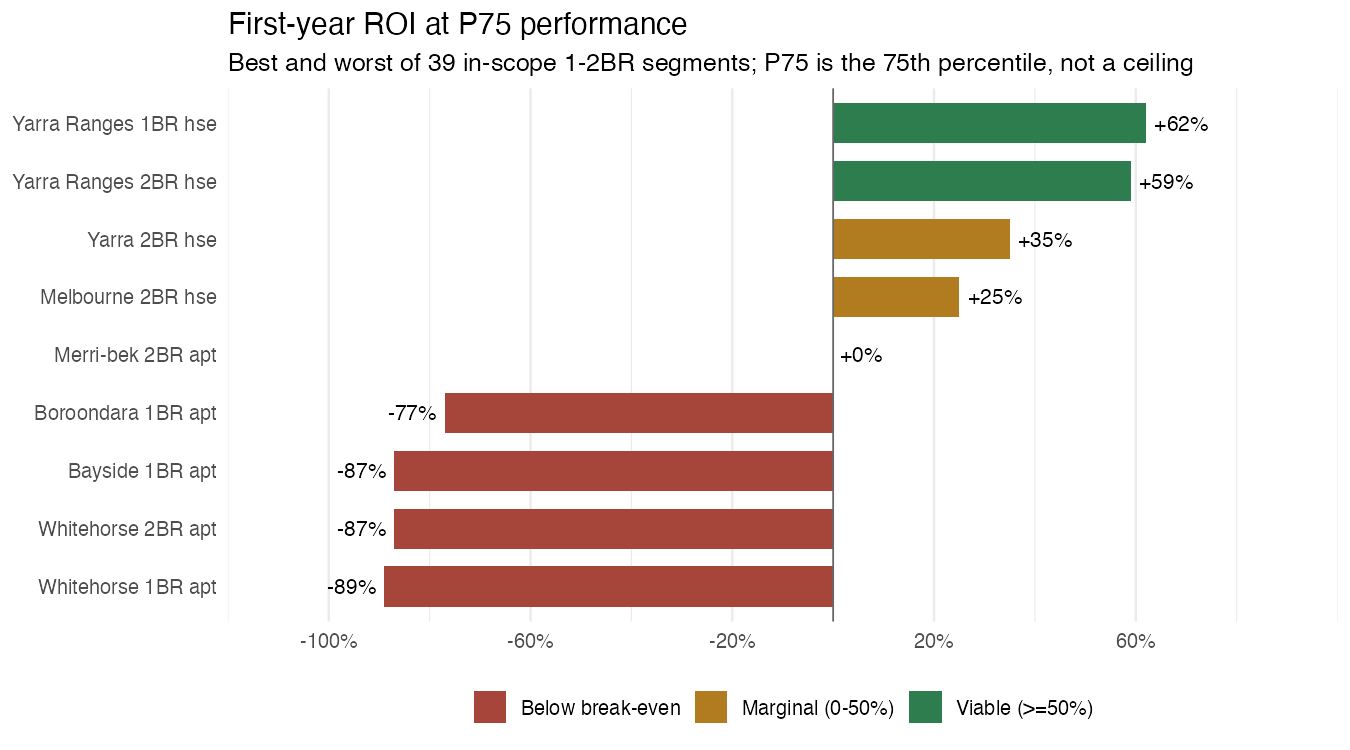
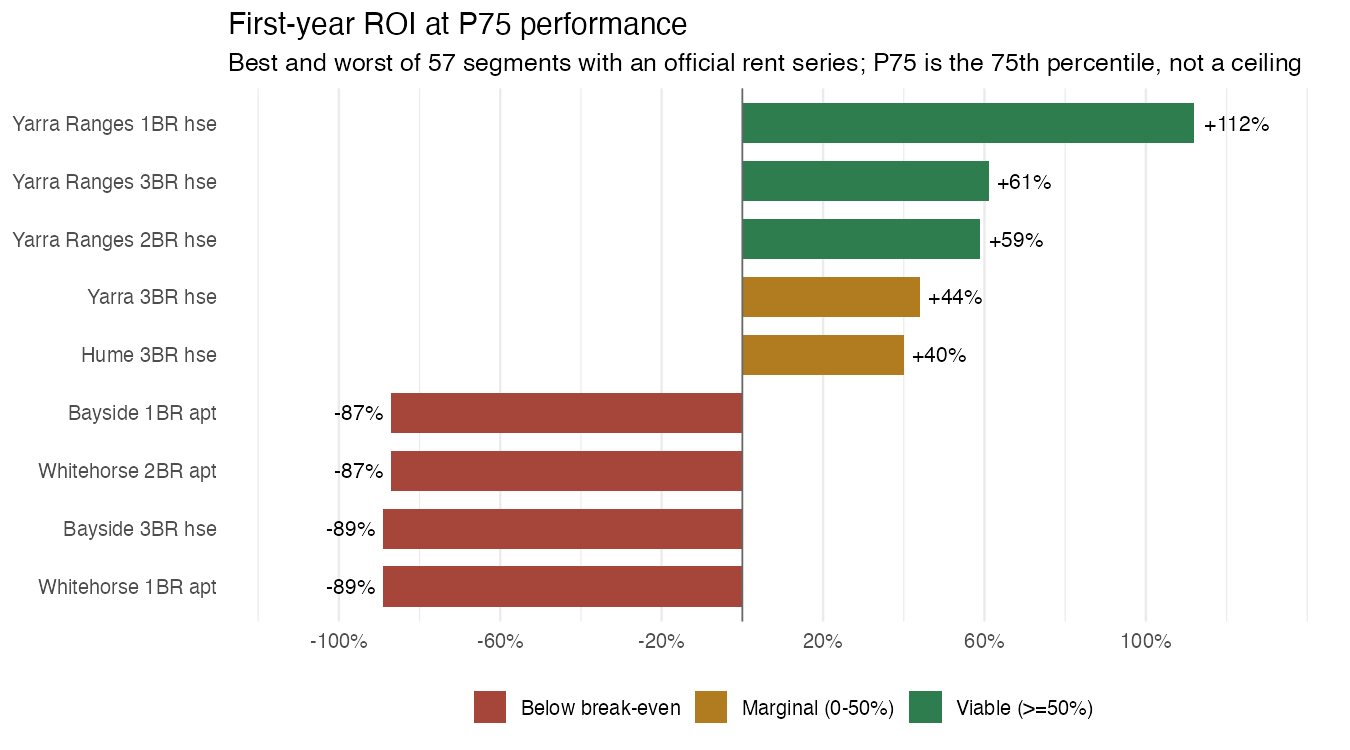
Derive 1BR-house rents rather than dropping the segment
Scope is now set by what a like-for-like rent can support. DFFH publishes four
series; one-bedroom houses have none, so their rent is derived as the LGA's own
2BR-house median scaled by that LGA's one-to-two-bedroom step in the flat
series. The step is clipped to its interquartile range (0.72-0.82, median 0.78
across 52 LGAs) on the same reasoning as the rent-growth clip, so a thin local
flat market cannot swing a derived house rent. Derived rows are flagged.

Three-bedroom apartments stay excluded: deriving them needs a dwelling-type
step rather than a bedroom step, on 961 listings.

The screen now covers 57 segments, all rent-matched. Yarra Ranges 1BR houses
enter at 112% on a derived $420 rent - previously they carried the 2BR-house
rent as an upper bound, which understated them. Also fixes subtotal rows
('Group Total', 'Victoria') leaking into the rent table as if they were LGAs.

diff --git a/reports/data-notes.md b/reports/data-notes.md
@@ -99,12 +99,24 @@ Moreland.
 
 Produced by `scripts/06_segment_roi_screen.R` from the cleaned listings and the
 official rents that `scripts/05_rent_data.R` downloads and projects forward.
-`reports/tables/segment_roi_screen.csv` holds the preliminary screen over all 39
-eligible segments (LGA x dwelling class x 1-2 bedrooms, at least 50 scoped
-listings each, 15 LGAs). Every segment matched a DFFH rent series, so none drop
-at that step. Revenue percentiles come from the active, priced subset within
-each segment; where that subset is small the percentile is indicative only. The
-five 1-bedroom-house segments have no official 1BR-house rent series and use the
-2BR-house series as a conservative upper bound. At P75 performance under
-baseline costs, 2 segments clear a 50% first-year cash-on-cash return, 3 more
-are positive, and 34 sit below break-even.
+
+Scope follows the rent data. DFFH publishes four series - 1BR flat, 2BR flat,
+2BR house, 3BR house - and a segment is only screened if a like-for-like rent
+exists or can be derived on a defensible basis:
+
+- Apartments and 2-3 bedroom houses map straight onto a published series.
+- One-bedroom houses have no series. Their rent is derived as the LGA's own
+  2BR-house median scaled by that same LGA's one-to-two-bedroom step in the
+  flat series (median step 0.78, clipped to the 0.72-0.82 interquartile range so
+  a thin local flat market cannot swing a house rent). These rows carry
+  `rent_derived = TRUE`.
+- Three-bedroom apartments are excluded: deriving them needs a dwelling-type
+  step rather than a bedroom step, on a much smaller base (961 listings).
+
+Revenue percentiles come from the active, priced subset of each segment; where
+that subset is small the percentile is indicative only. `in_client_scope` marks
+the 1-2 bedroom brief, with 3-bedroom segments screened alongside as a
+documented scope test rather than silently dropped.
+
+At P75 performance under baseline costs, 3 of 57 segments clear a 50% first-year
+cash-on-cash return, 7 more are positive, and 47 sit below break-even.
